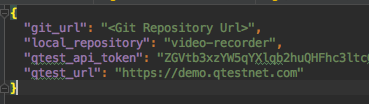
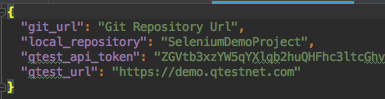
Updated README

diff --git a/AutomationHostExamples/automateSelenium/README.md b/AutomationHostExamples/automateSelenium/README.md
@@ -149,6 +149,6 @@ The shell script will only run the scheduled tests and upload those results to q
 
 ## Note:
 
-The Nunit parser reads from TestResult.xml file, which is located in the bin/Debug directory. Ensure that the .dll file is located in this directory before running the shell script. In addition, make sure the name of the directory where the project is located is the same name as the .csproj being built. In the example shown below, "video-recorder" in the name of the local directory, and it is the same name as the .csproj called "video-recorder.csproj"
+The Nunit parser reads from TestResult.xml file, which is located in the bin/Debug directory. Ensure that the .dll file is located in this directory before running the shell script. In addition, make sure the name of the directory where the project is located is the same name as the .csproj being built. In the example shown below, "SeleniumDemoProject" in the name of the local directory, and it is the same name as the .csproj called "SeleniumDemoProject.csproj"
 
 ![](../images/seleniumfilename.png)
